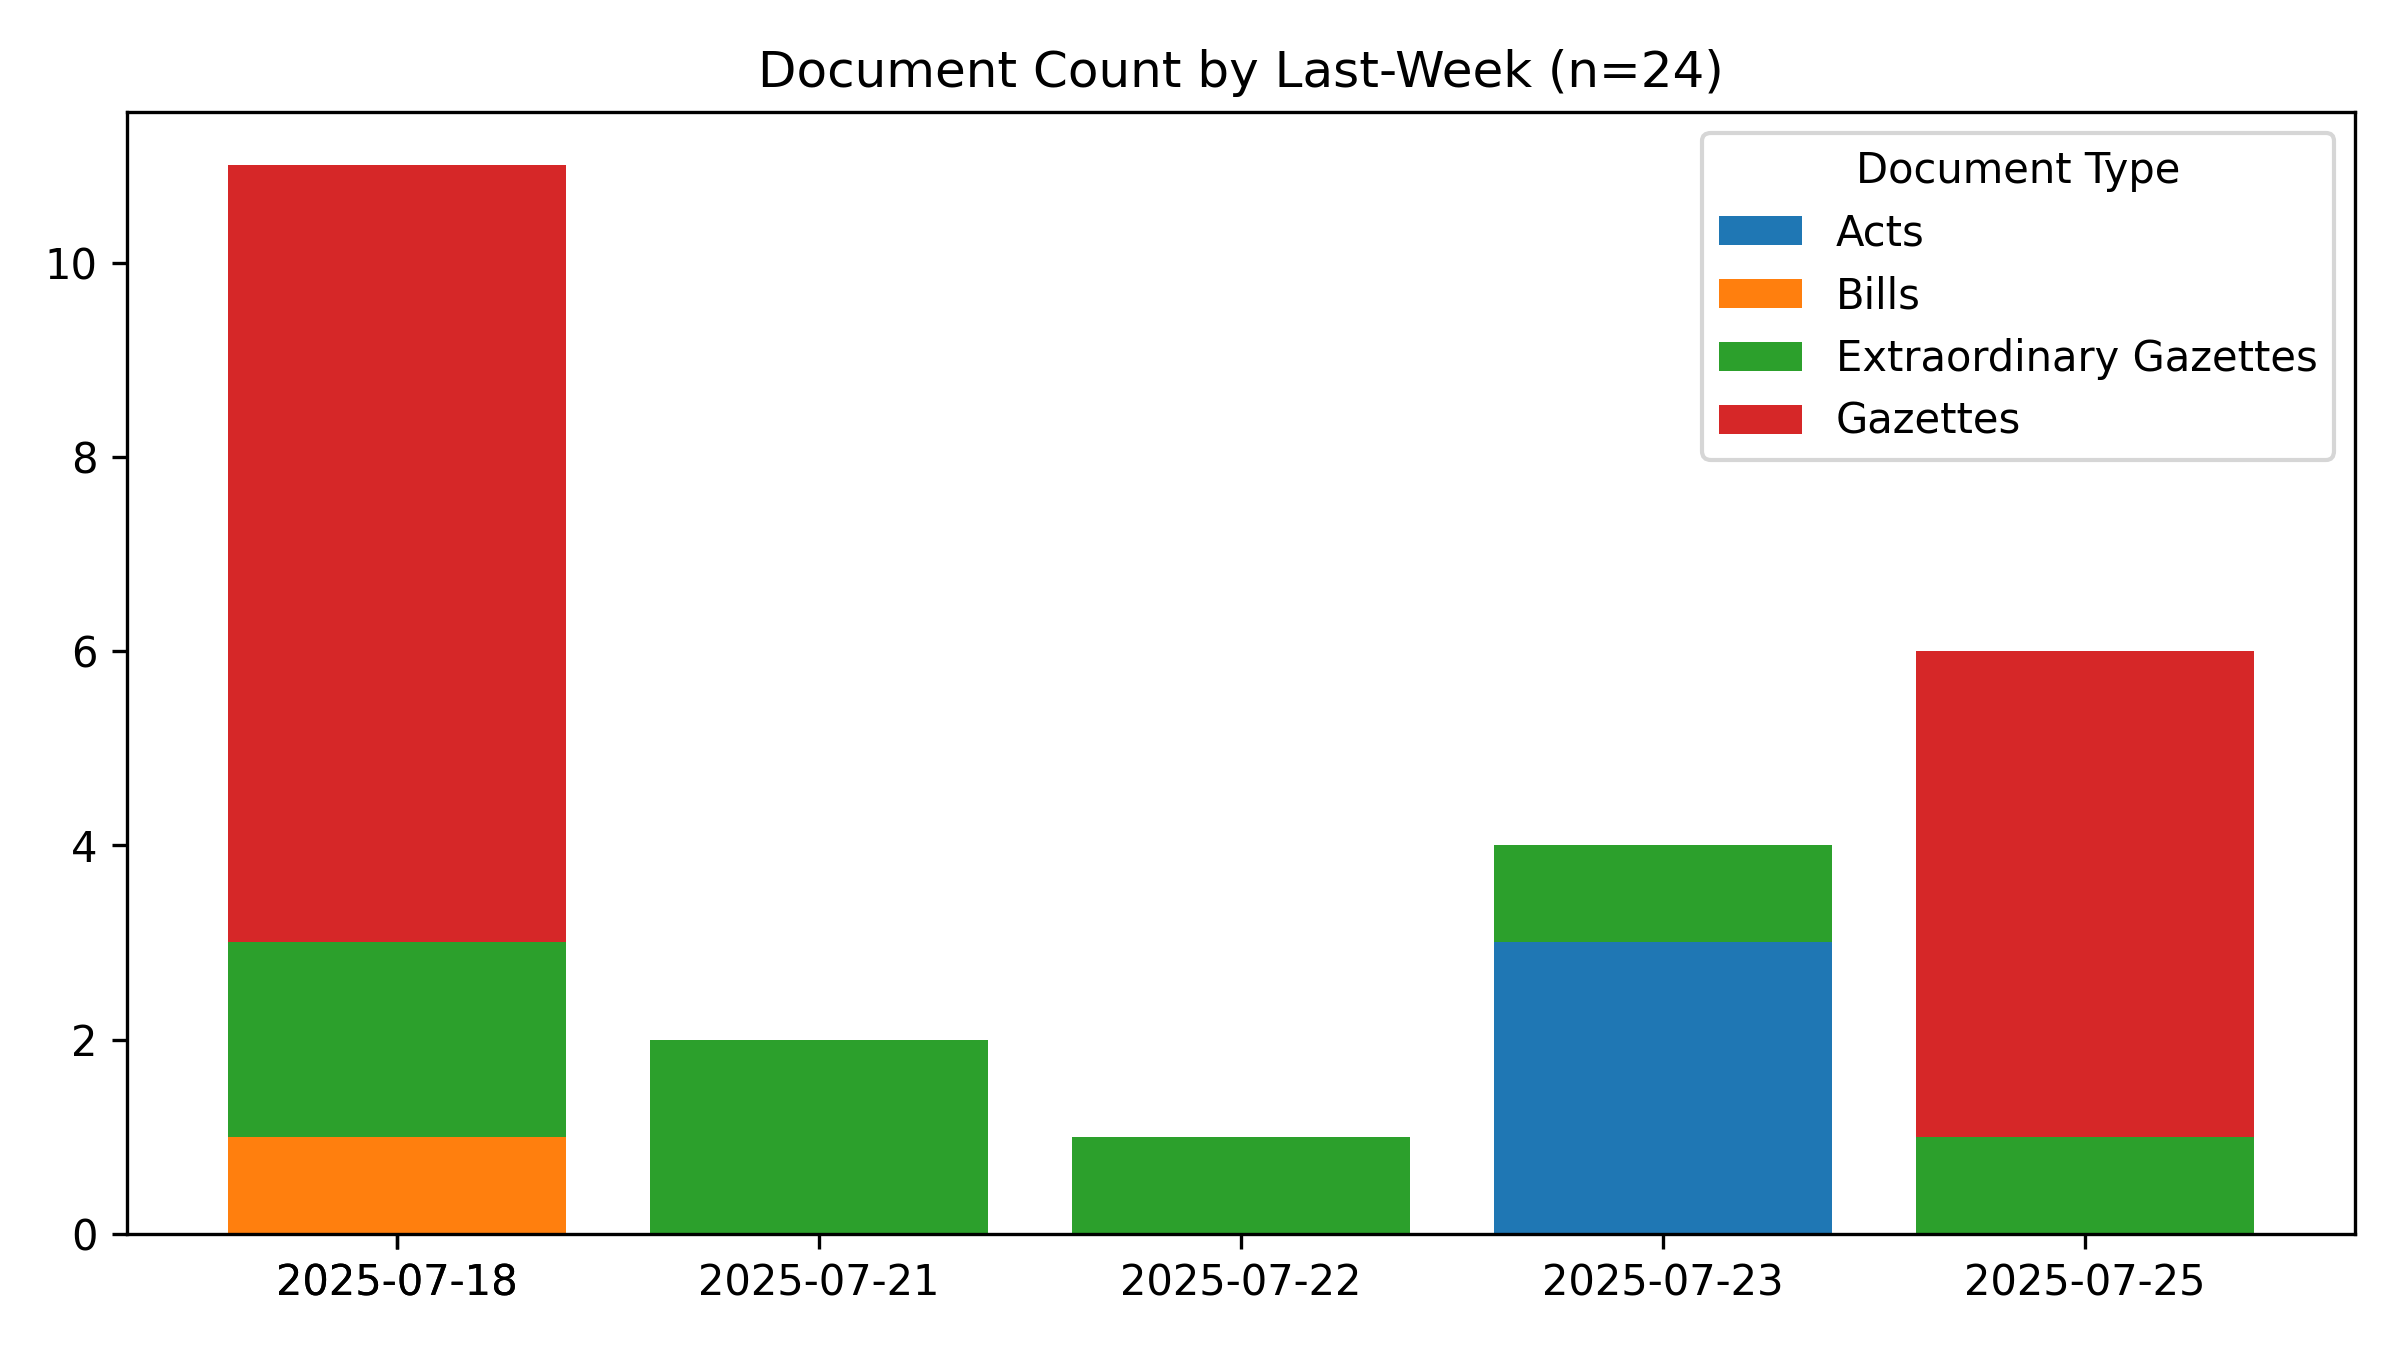
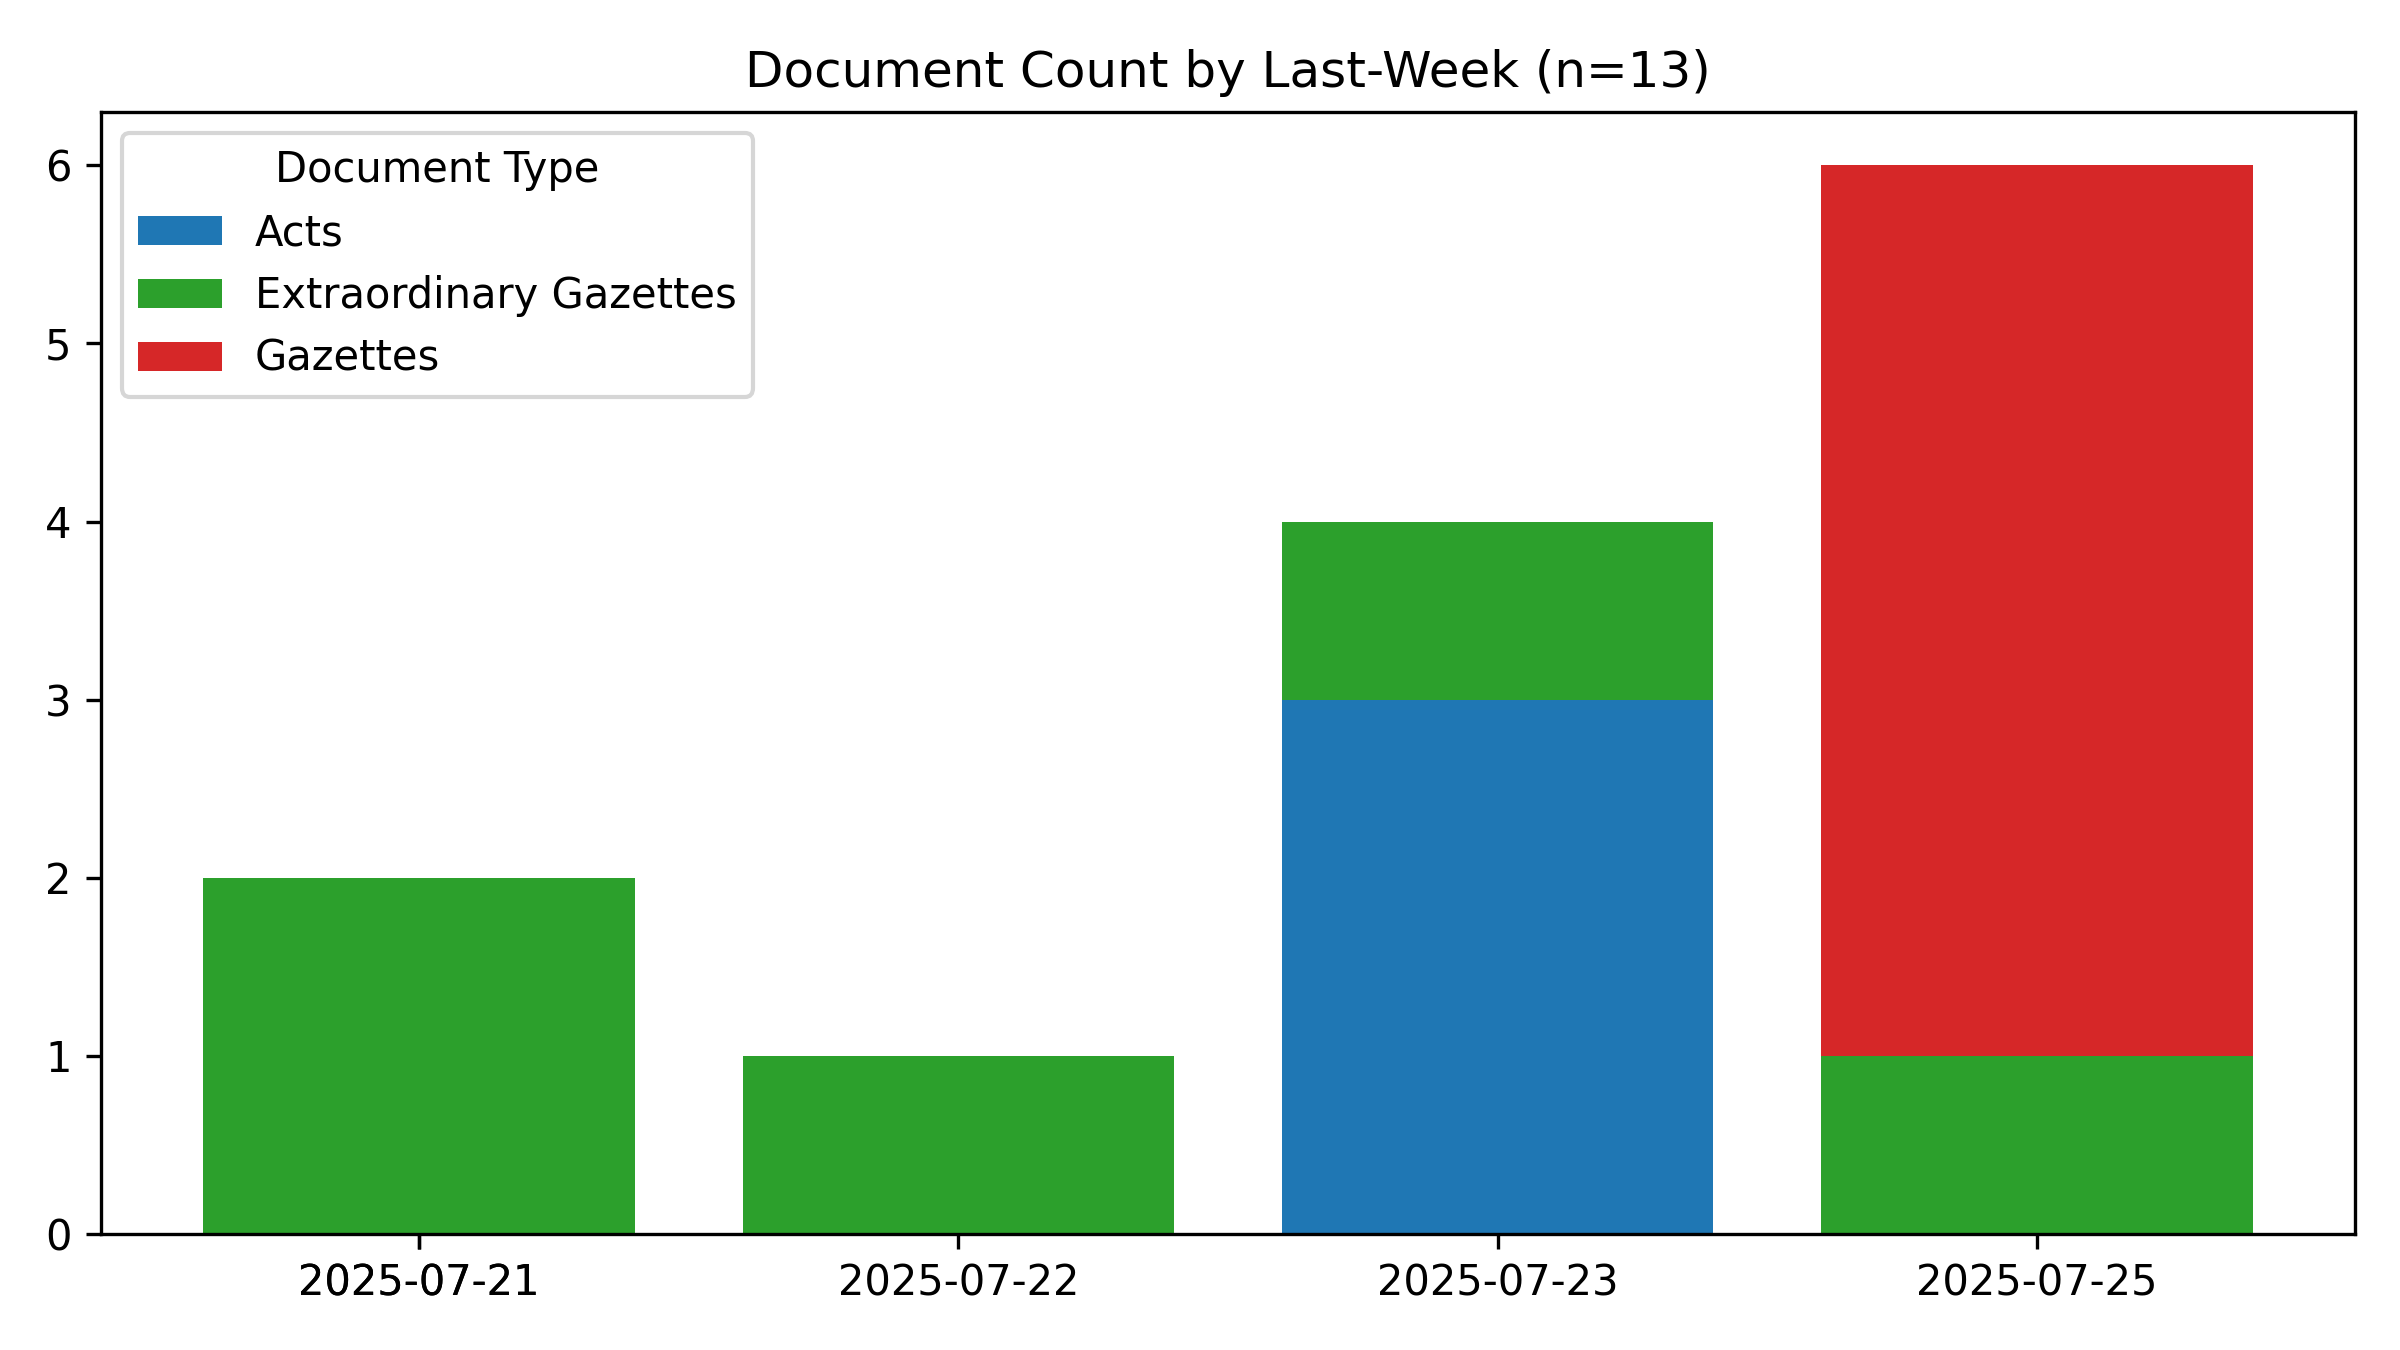
🤖 [data_scraper.yml] 2025-07-26-0020

diff --git a/README.md b/README.md
@@ -1,6 +1,6 @@
 # #SriLanka 🇱🇰 - Legal Documents #Dataset
 
-*Last Updated **2025-07-26 05:29:15**.*
+*Last Updated **2025-07-26 05:50:28**.*
 
 **44,117** documents (40.9 MB), from 1981-01-22 to 2025-07-25.
 
@@ -16,7 +16,7 @@ A collection of 📢 Gazettes, 🚨 Extraordinary Gazettes, 🏛 Acts, ✍
 
 #Legal #OpenData #GovTech
 
-📄 Currently, 77,492 PDFs (29.7 GB) for **27,631** documents (62.6%) have been downloaded. Final data size is estimated to be ~47 GB.
+📄 Currently, 77,623 PDFs (29.7 GB) for **27,677** documents (62.7%) have been downloaded. Final data size is estimated to be ~47 GB.
 
 ## 🆕 The Legal Documents App
 
@@ -45,7 +45,7 @@ For best results, use a desktop browser.
 
 ## Recent Documents (Published during the last 7 days)
 
-**24** Documents
+**13** Documents
 
 - 🚨 [2025-07-25] [Presidential Secretariat - Order Call Out All the member of the Armed Forces](https://github.com/nuuuwan/lk_legal_docs_data/tree/main/data/extra-gazettes/2025/2446-52)
 - 📢 [2025-07-25] [Legal Section](https://github.com/nuuuwan/lk_legal_docs_data/tree/main/data/gazettes/2025/2025-07-25-legal-section)
@@ -60,14 +60,3 @@ For best results, use a desktop browser.
 - 🚨 [2025-07-22] [Department of Census and Statistics - National Consumer Price Index - June 2025](https://github.com/nuuuwan/lk_legal_docs_data/tree/main/data/extra-gazettes/2025/2446-35)
 - 🚨 [2025-07-21] [National Medicines Regulatory Authority - Medicines (Pricing Mechanism for Medicines) Regulations No. 02 of 2025.](https://github.com/nuuuwan/lk_legal_docs_data/tree/main/data/extra-gazettes/2025/2446-34)
 - 🚨 [2025-07-21] [Sri Lanka Customs - Rates of Exchange with effect from 21.07.2025 to 27.07.2025](https://github.com/nuuuwan/lk_legal_docs_data/tree/main/data/extra-gazettes/2025/2446-01)
-- ✍ [2025-07-18] [Institute of Facilities Management Sri Lanka (Incorporation) - GS](https://github.com/nuuuwan/lk_legal_docs_data/tree/main/data/bills/2025/623-2025)
-- 🚨 [2025-07-18] [Dept. of Local Government - Eastern Province Notice Under Section 66 (C) Summon the meeting fill the Vacancy for the Post of Lahugala Pradeshiya Sabha](https://github.com/nuuuwan/lk_legal_docs_data/tree/main/data/extra-gazettes/2025/2445-58)
-- 🚨 [2025-07-18] [2445/21](https://github.com/nuuuwan/lk_legal_docs_data/tree/main/data/extra-gazettes/2025/2445-21)
-- 📢 [2025-07-18] [Legal Section](https://github.com/nuuuwan/lk_legal_docs_data/tree/main/data/gazettes/2025/2025-07-18-legal-section)
-- 📢 [2025-07-18] [Land Section](https://github.com/nuuuwan/lk_legal_docs_data/tree/main/data/gazettes/2025/2025-07-18-land-section)
-- 📢 [2025-07-18] [IV (B) - Local Government](https://github.com/nuuuwan/lk_legal_docs_data/tree/main/data/gazettes/2025/2025-07-18-iv-b-local-government)
-- 📢 [2025-07-18] [IV (A) - Provincial Councils](https://github.com/nuuuwan/lk_legal_docs_data/tree/main/data/gazettes/2025/2025-07-18-iv-a-provincial-councils)
-- 📢 [2025-07-18] [(III) - TRADE MARKS AND PATENT NOTICES](https://github.com/nuuuwan/lk_legal_docs_data/tree/main/data/gazettes/2025/2025-07-18-iii-trade-marks-and-patent-notices)
-- 📢 [2025-07-18] [(IIB) - Advertising](https://github.com/nuuuwan/lk_legal_docs_data/tree/main/data/gazettes/2025/2025-07-18-iib-advertising)
-- 📢 [2025-07-18] [(IIA) - Advertising](https://github.com/nuuuwan/lk_legal_docs_data/tree/main/data/gazettes/2025/2025-07-18-iia-advertising)
-- 📢 [2025-07-18] [(I) - General](https://github.com/nuuuwan/lk_legal_docs_data/tree/main/data/gazettes/2025/2025-07-18-i-general)
